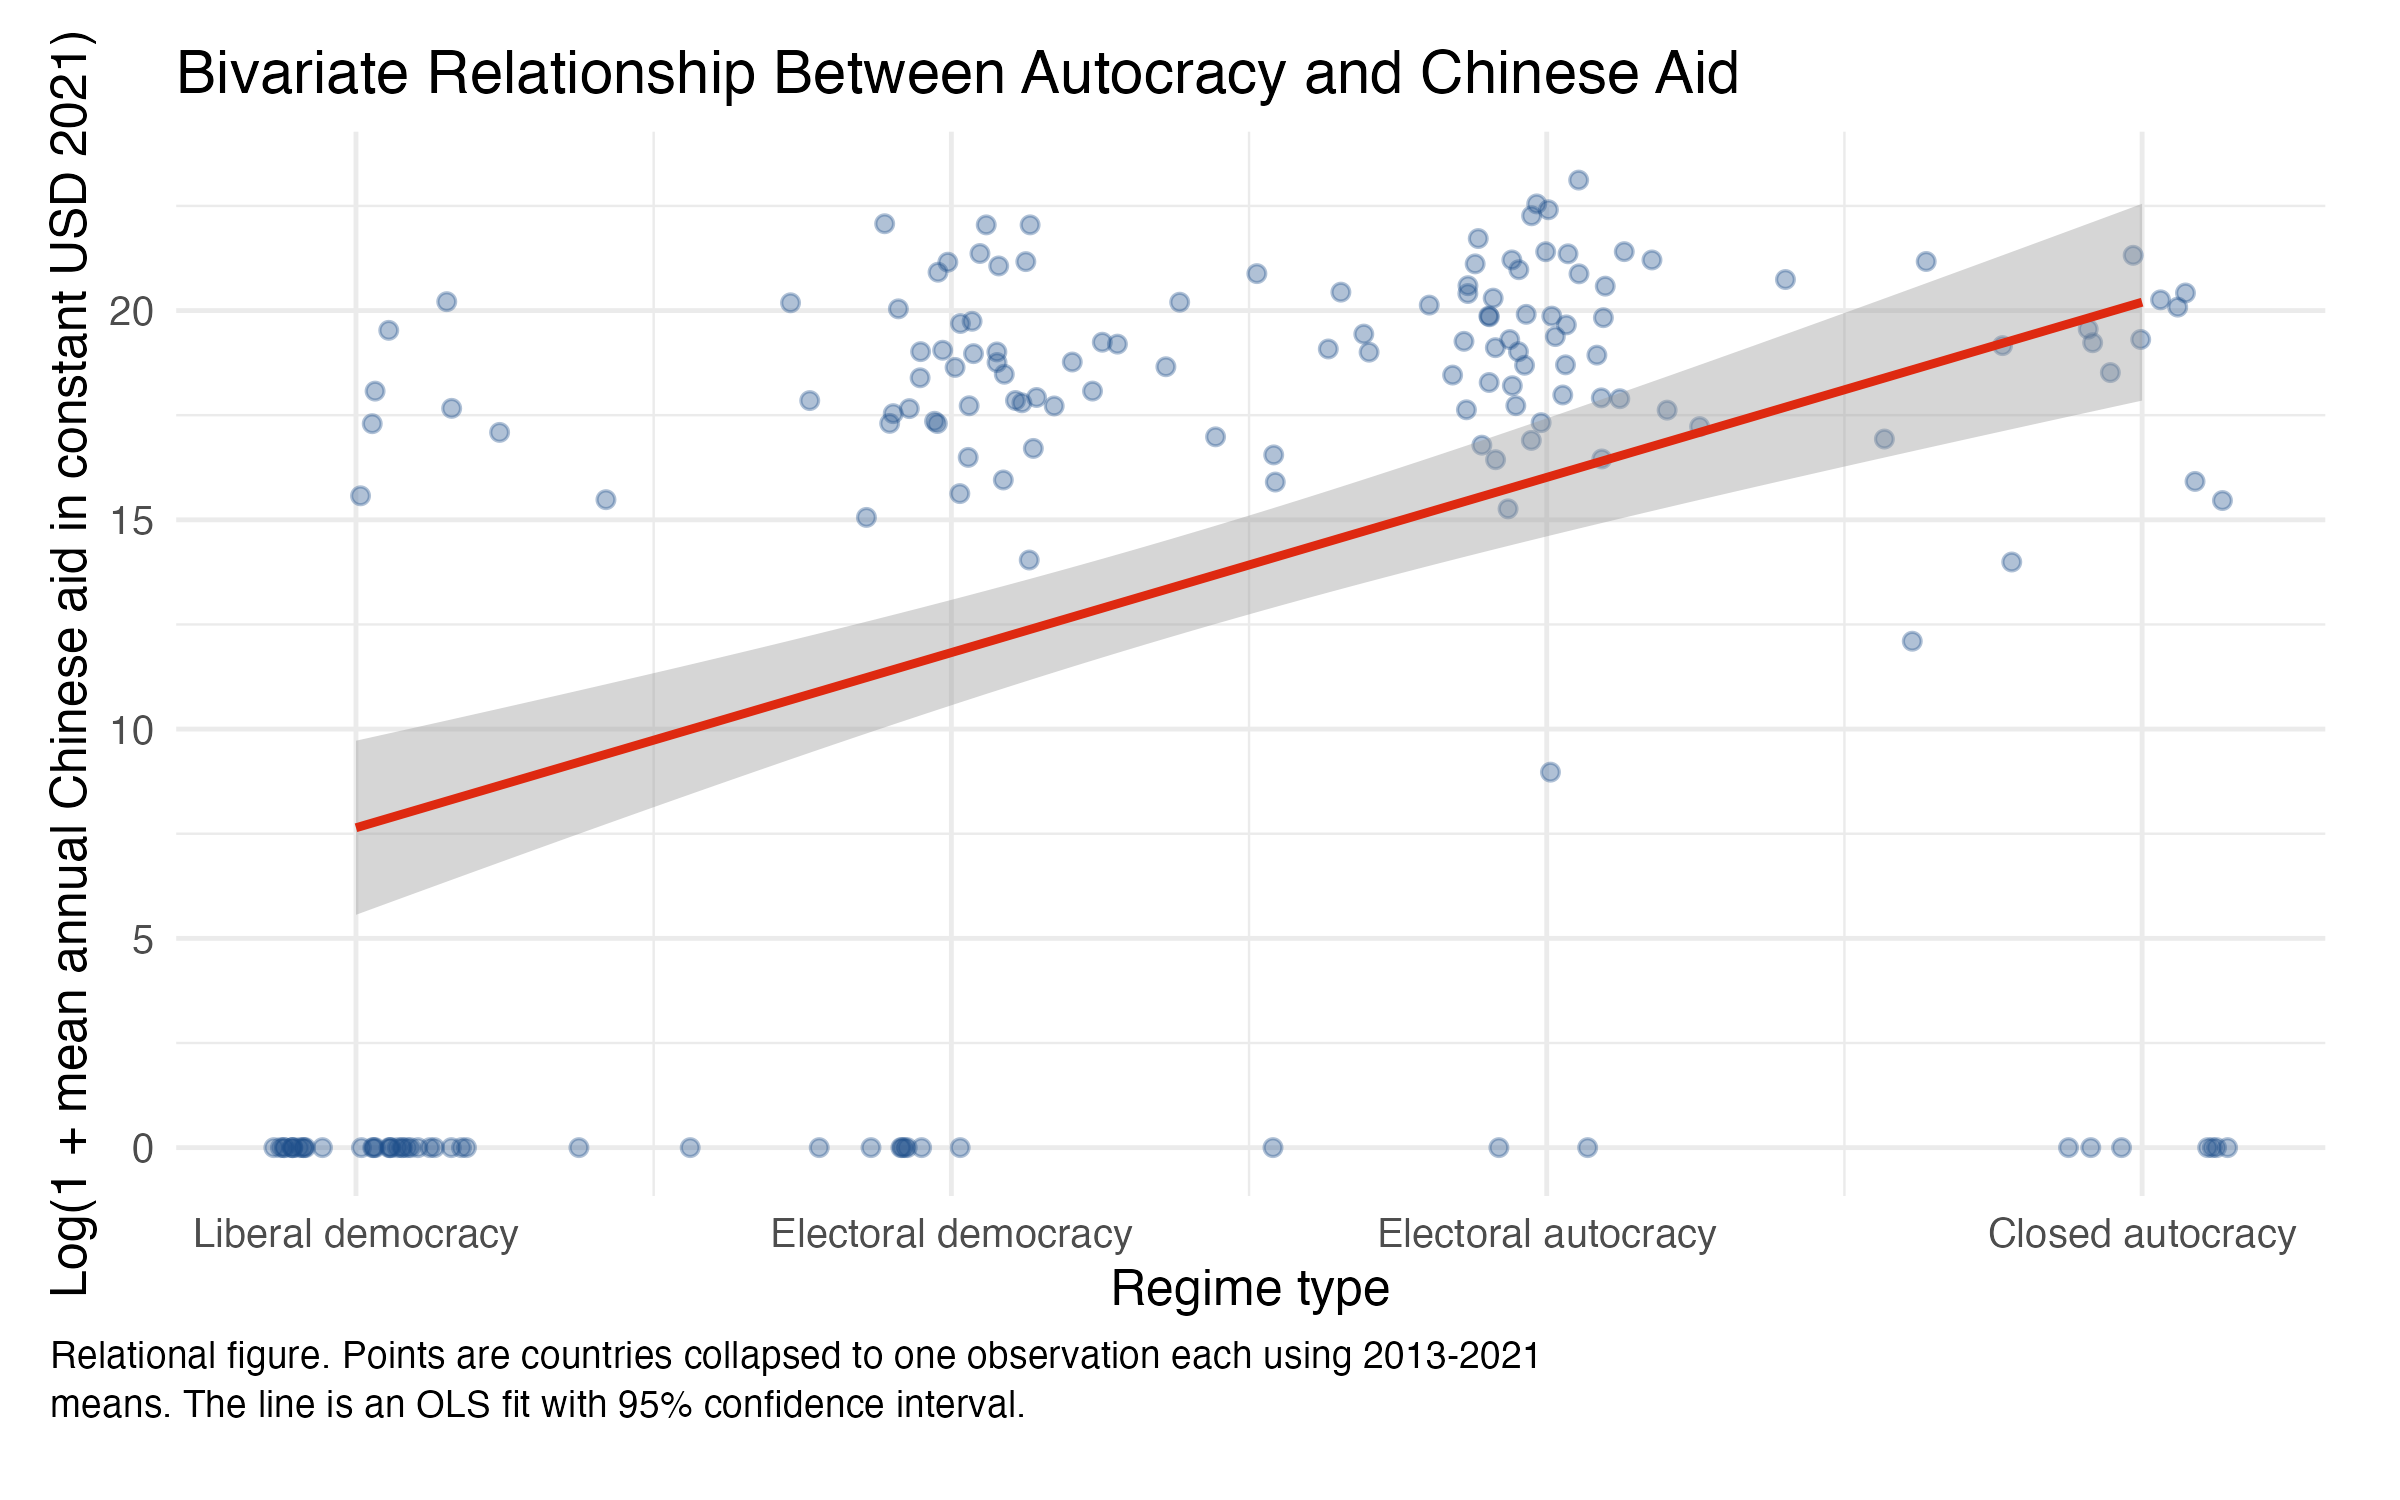
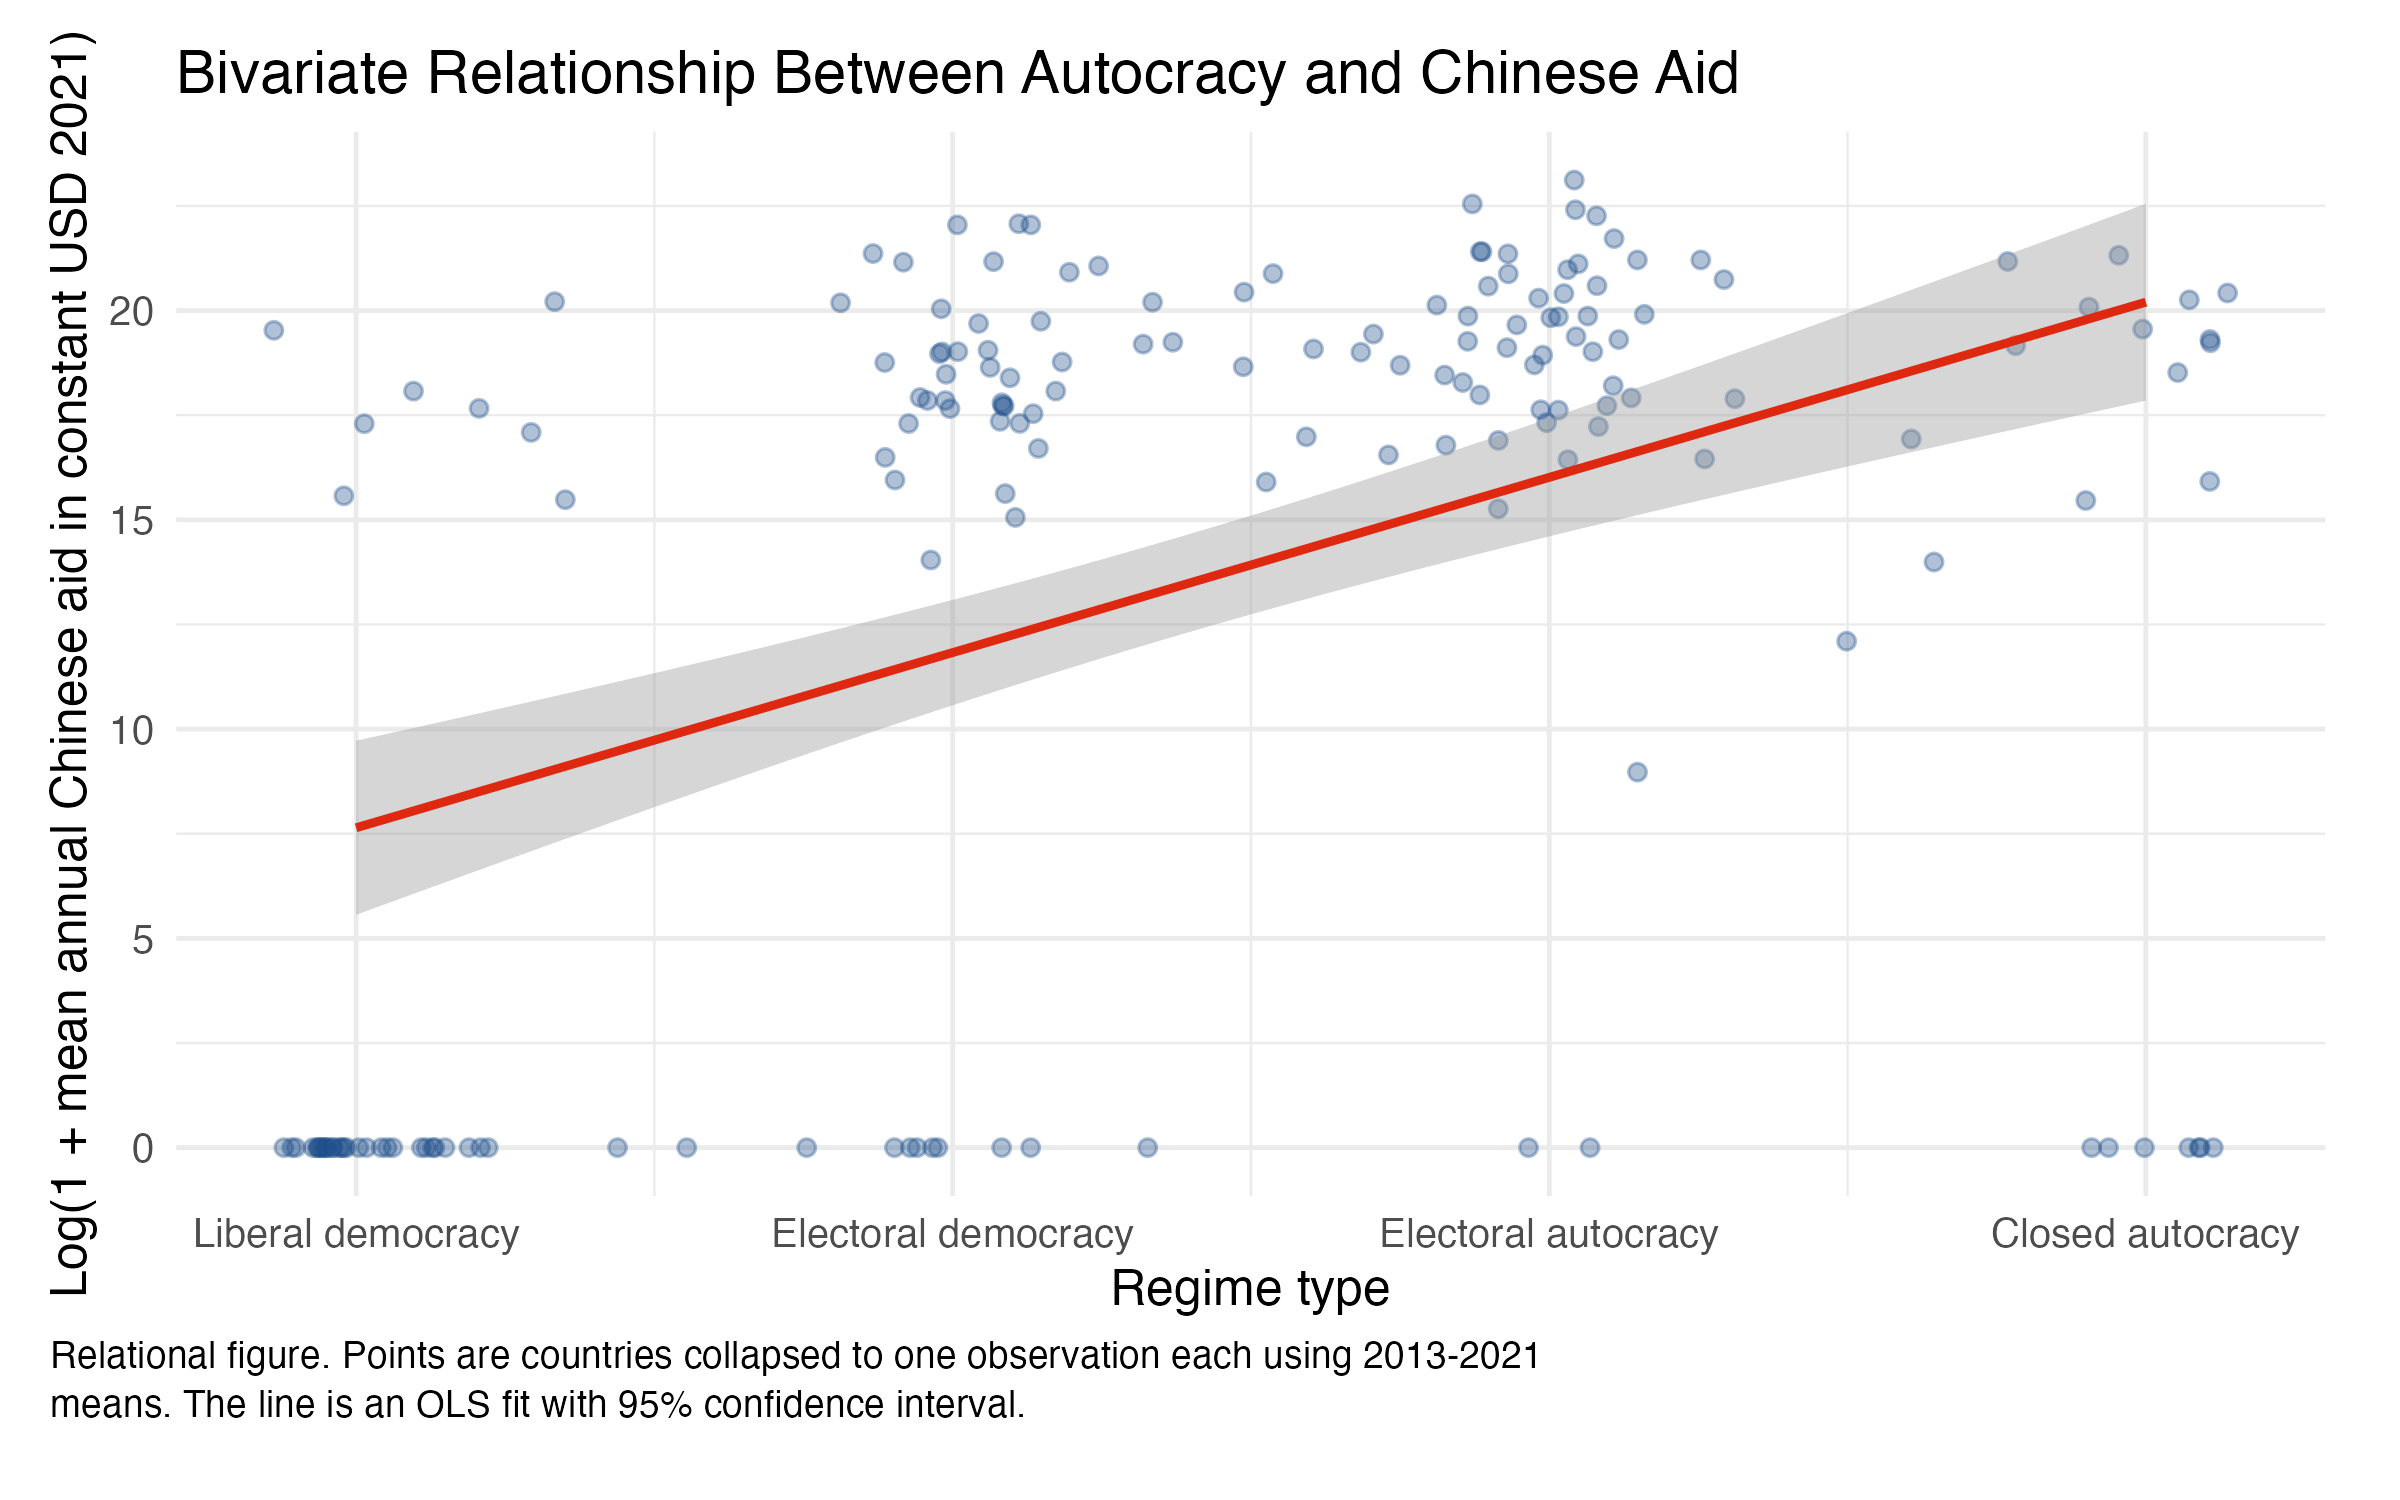
Add country-level robustness check

diff --git a/output/country_cross_section/selection_model_country_regression_table.html b/output/country_cross_section/selection_model_country_regression_table.html
@@ -1,33 +1,34 @@
 
 <table style="text-align:center"><caption><strong>Chinese Aid and Regime Type (Country-Level Cross-Section)</strong></caption>
-<tr><td colspan="3" style="border-bottom: 1px solid black"></td></tr><tr><td style="text-align:left"></td><td colspan="2"><em>Dependent variable:</em></td></tr>
-<tr><td></td><td colspan="2" style="border-bottom: 1px solid black"></td></tr>
-<tr><td style="text-align:left"></td><td colspan="2">Log(1 + mean annual Chinese aid in constant USD 2021)</td></tr>
-<tr><td style="text-align:left"></td><td>Bivariate</td><td>Controls</td></tr>
-<tr><td style="text-align:left"></td><td>(1)</td><td>(2)</td></tr>
-<tr><td colspan="3" style="border-bottom: 1px solid black"></td></tr><tr><td style="text-align:left">Autocracy score</td><td>4.186<sup>***</sup></td><td>0.948</td></tr>
-<tr><td style="text-align:left"></td><td>(0.769)</td><td>(1.171)</td></tr>
-<tr><td style="text-align:left"></td><td></td><td></td></tr>
-<tr><td style="text-align:left">Log GDP per capita</td><td></td><td>-2.591<sup>***</sup></td></tr>
-<tr><td style="text-align:left"></td><td></td><td>(0.960)</td></tr>
-<tr><td style="text-align:left"></td><td></td><td></td></tr>
-<tr><td style="text-align:left">Corruption Perceptions Index</td><td></td><td>-0.207<sup>***</sup></td></tr>
-<tr><td style="text-align:left"></td><td></td><td>(0.061)</td></tr>
-<tr><td style="text-align:left"></td><td></td><td></td></tr>
-<tr><td style="text-align:left">Extreme poverty share</td><td></td><td>-0.111<sup>**</sup></td></tr>
-<tr><td style="text-align:left"></td><td></td><td>(0.046)</td></tr>
-<tr><td style="text-align:left"></td><td></td><td></td></tr>
-<tr><td style="text-align:left">Gini index</td><td></td><td>29.888<sup>***</sup></td></tr>
-<tr><td style="text-align:left"></td><td></td><td>(8.620)</td></tr>
-<tr><td style="text-align:left"></td><td></td><td></td></tr>
-<tr><td style="text-align:left">Constant</td><td>7.642<sup>***</sup></td><td>35.808<sup>***</sup></td></tr>
-<tr><td style="text-align:left"></td><td>(1.165)</td><td>(9.093)</td></tr>
-<tr><td style="text-align:left"></td><td></td><td></td></tr>
-<tr><td colspan="3" style="border-bottom: 1px solid black"></td></tr><tr><td style="text-align:left">Unit of analysis</td><td>Country</td><td>Country</td></tr>
-<tr><td style="text-align:left">Years collapsed</td><td>2013-2021 mean</td><td>2013-2021 mean</td></tr>
-<tr><td style="text-align:left">Standard errors</td><td>HC1</td><td>HC1</td></tr>
-<tr><td style="text-align:left">Observations</td><td>174</td><td>135</td></tr>
-<tr><td style="text-align:left">R<sup>2</sup></td><td>0.202</td><td>0.594</td></tr>
-<tr><td style="text-align:left">Adjusted R<sup>2</sup></td><td>0.197</td><td>0.578</td></tr>
-<tr><td colspan="3" style="border-bottom: 1px solid black"></td></tr><tr><td style="text-align:left"><em>Note:</em></td><td colspan="2" style="text-align:right"><sup>*</sup>p<0.1; <sup>**</sup>p<0.05; <sup>***</sup>p<0.01</td></tr>
+<tr><td colspan="4" style="border-bottom: 1px solid black"></td></tr><tr><td style="text-align:left"></td><td colspan="3"><em>Dependent variable:</em></td></tr>
+<tr><td></td><td colspan="3" style="border-bottom: 1px solid black"></td></tr>
+<tr><td style="text-align:left"></td><td colspan="3">Log(1 + mean annual Chinese aid in constant USD 2021)</td></tr>
+<tr><td style="text-align:left"></td><td>Bivariate</td><td>Controls</td><td>Controls, positive-aid only</td></tr>
+<tr><td style="text-align:left"></td><td>(1)</td><td>(2)</td><td>(3)</td></tr>
+<tr><td colspan="4" style="border-bottom: 1px solid black"></td></tr><tr><td style="text-align:left">Autocracy score</td><td>4.186<sup>***</sup></td><td>0.948</td><td>1.083<sup>***</sup></td></tr>
+<tr><td style="text-align:left"></td><td>(0.769)</td><td>(1.171)</td><td>(0.397)</td></tr>
+<tr><td style="text-align:left"></td><td></td><td></td><td></td></tr>
+<tr><td style="text-align:left">Log GDP per capita</td><td></td><td>-2.591<sup>***</sup></td><td>0.812<sup>***</sup></td></tr>
+<tr><td style="text-align:left"></td><td></td><td>(0.960)</td><td>(0.276)</td></tr>
+<tr><td style="text-align:left"></td><td></td><td></td><td></td></tr>
+<tr><td style="text-align:left">Corruption Perceptions Index</td><td></td><td>-0.207<sup>***</sup></td><td>-0.009</td></tr>
+<tr><td style="text-align:left"></td><td></td><td>(0.061)</td><td>(0.026)</td></tr>
+<tr><td style="text-align:left"></td><td></td><td></td><td></td></tr>
+<tr><td style="text-align:left">Extreme poverty share</td><td></td><td>-0.111<sup>**</sup></td><td>0.022</td></tr>
+<tr><td style="text-align:left"></td><td></td><td>(0.046)</td><td>(0.013)</td></tr>
+<tr><td style="text-align:left"></td><td></td><td></td><td></td></tr>
+<tr><td style="text-align:left">Gini index</td><td></td><td>29.888<sup>***</sup></td><td>1.008</td></tr>
+<tr><td style="text-align:left"></td><td></td><td>(8.620)</td><td>(3.314)</td></tr>
+<tr><td style="text-align:left"></td><td></td><td></td><td></td></tr>
+<tr><td style="text-align:left">Constant</td><td>7.642<sup>***</sup></td><td>35.808<sup>***</sup></td><td>9.717<sup>***</sup></td></tr>
+<tr><td style="text-align:left"></td><td>(1.165)</td><td>(9.093)</td><td>(2.533)</td></tr>
+<tr><td style="text-align:left"></td><td></td><td></td><td></td></tr>
+<tr><td colspan="4" style="border-bottom: 1px solid black"></td></tr><tr><td style="text-align:left">Unit of analysis</td><td>Country</td><td>Country</td><td>Country</td></tr>
+<tr><td style="text-align:left">Years collapsed</td><td>2013-2021 mean</td><td>2013-2021 mean</td><td>2013-2021 mean</td></tr>
+<tr><td style="text-align:left">Sample</td><td>All countries</td><td>All countries</td><td>Aid recipients only</td></tr>
+<tr><td style="text-align:left">Standard errors</td><td>HC1</td><td>HC1</td><td>HC1</td></tr>
+<tr><td style="text-align:left">Observations</td><td>174</td><td>135</td><td>92</td></tr>
+<tr><td style="text-align:left">R<sup>2</sup></td><td>0.202</td><td>0.594</td><td>0.165</td></tr>
+<tr><td style="text-align:left">Adjusted R<sup>2</sup></td><td>0.197</td><td>0.578</td><td>0.117</td></tr>
+<tr><td colspan="4" style="border-bottom: 1px solid black"></td></tr><tr><td style="text-align:left"><em>Note:</em></td><td colspan="3" style="text-align:right"><sup>*</sup>p<0.1; <sup>**</sup>p<0.05; <sup>***</sup>p<0.01</td></tr>
 </table>
